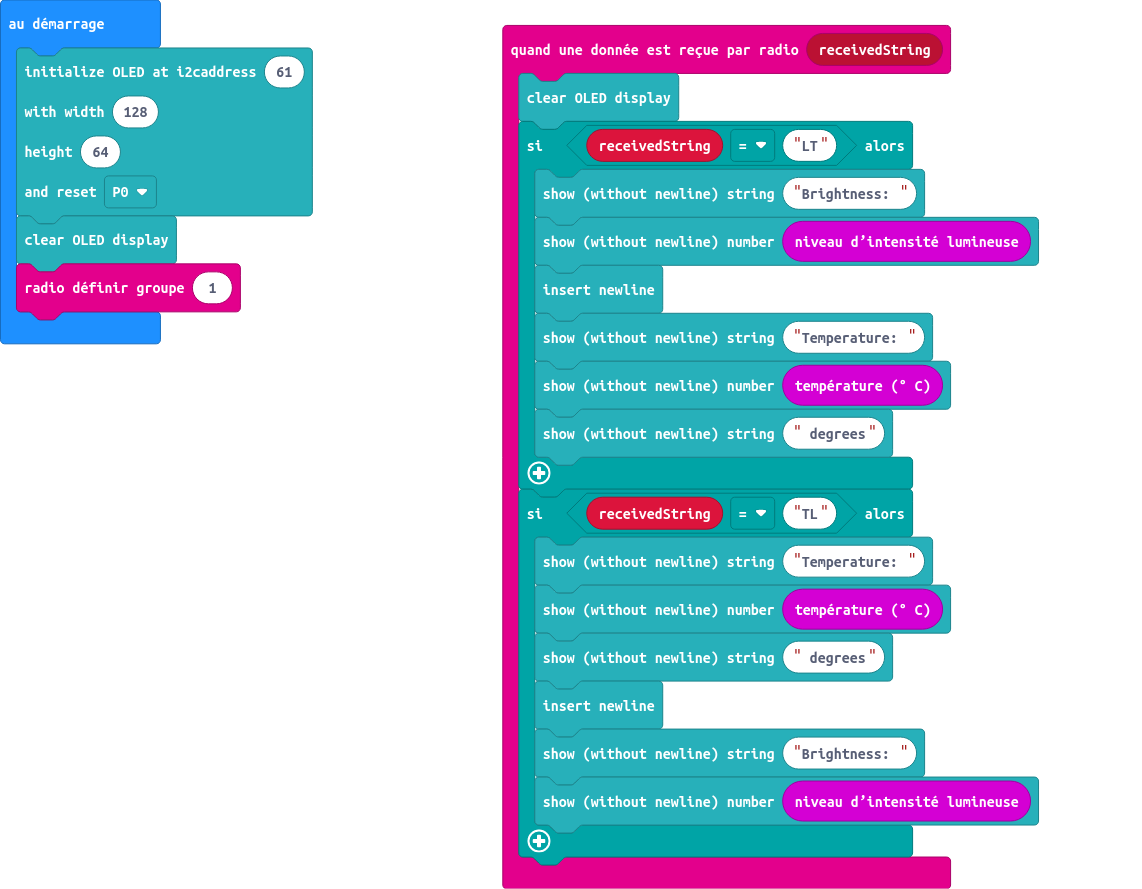
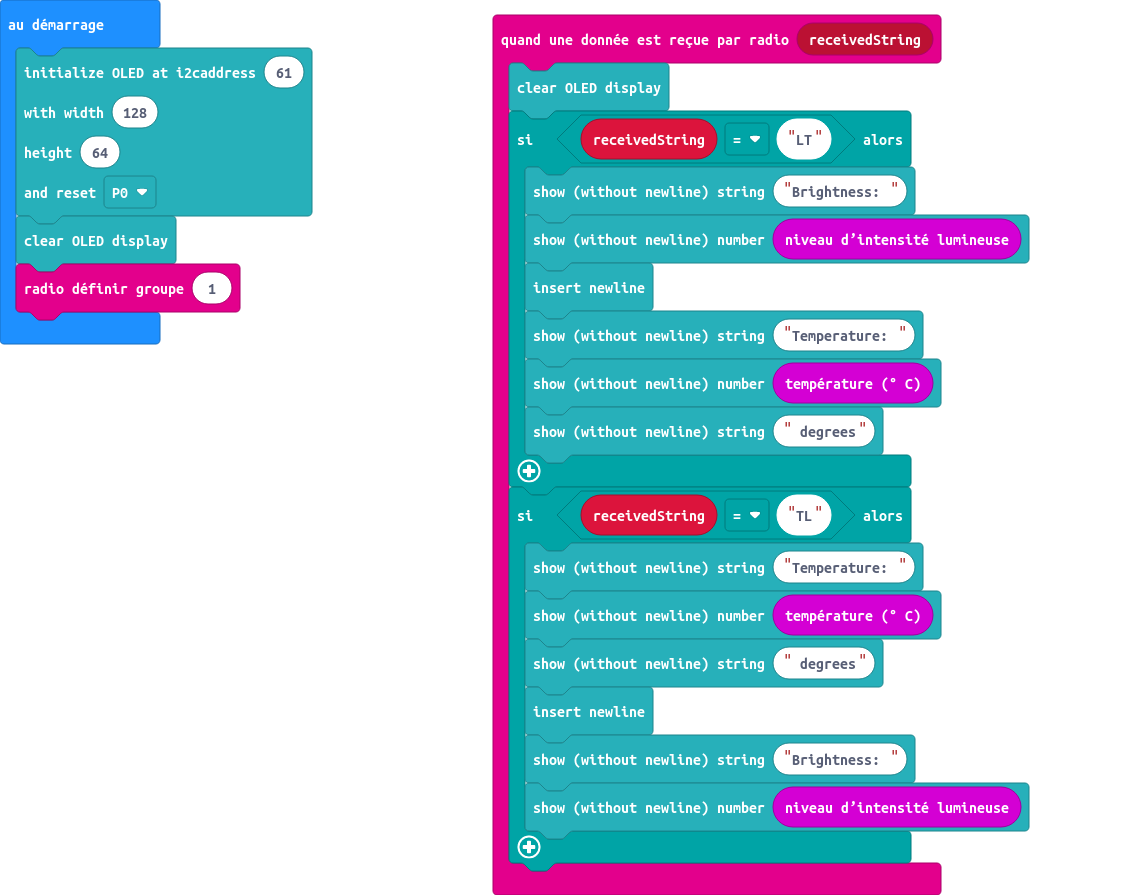
Mise à jour pxt.json, main.blocks, main.ts

diff --git a/main.ts b/main.ts
@@ -1,4 +1,4 @@
-radio.onReceivedString(function on_received_string(receivedString: string) {
+radio.onReceivedString(function (receivedString) {
     ssd1306.clear()
     if (receivedString == "LT") {
         ssd1306.writeString("Brightness: ")
@@ -8,7 +8,6 @@ radio.onReceivedString(function on_received_string(receivedString: string) {
         ssd1306.writeNum(input.temperature())
         ssd1306.writeString(" degrees")
     }
-    
     if (receivedString == "TL") {
         ssd1306.writeString("Temperature: ")
         ssd1306.writeNum(input.temperature())
@@ -17,8 +16,12 @@ radio.onReceivedString(function on_received_string(receivedString: string) {
         ssd1306.writeString("Brightness: ")
         ssd1306.writeNum(input.lightLevel())
     }
-    
 })
-ssd1306.init(128, 64, DigitalPin.P0, 61)
+ssd1306.init(
+128,
+64,
+DigitalPin.P0,
+61
+)
 ssd1306.clear()
 radio.setGroup(1)
